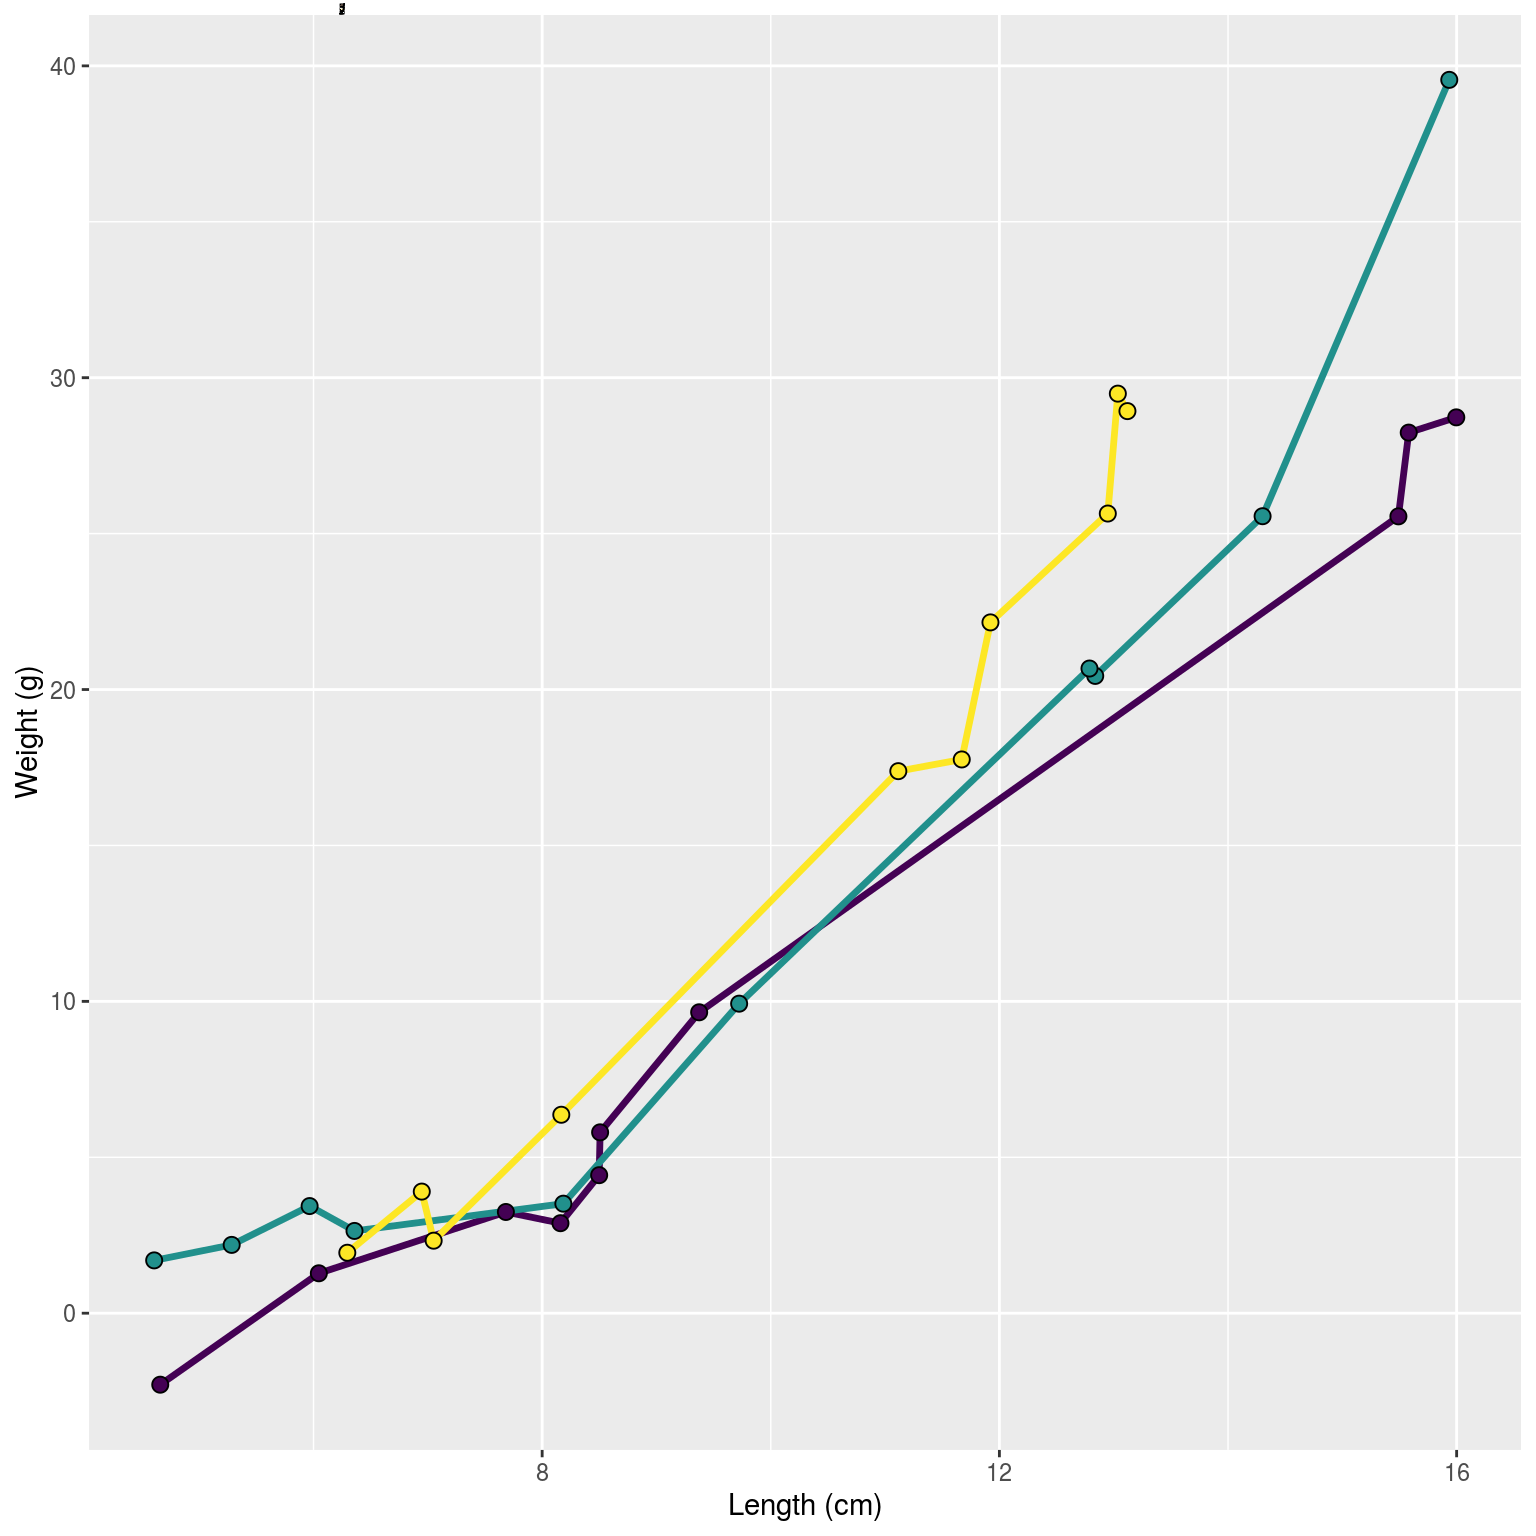
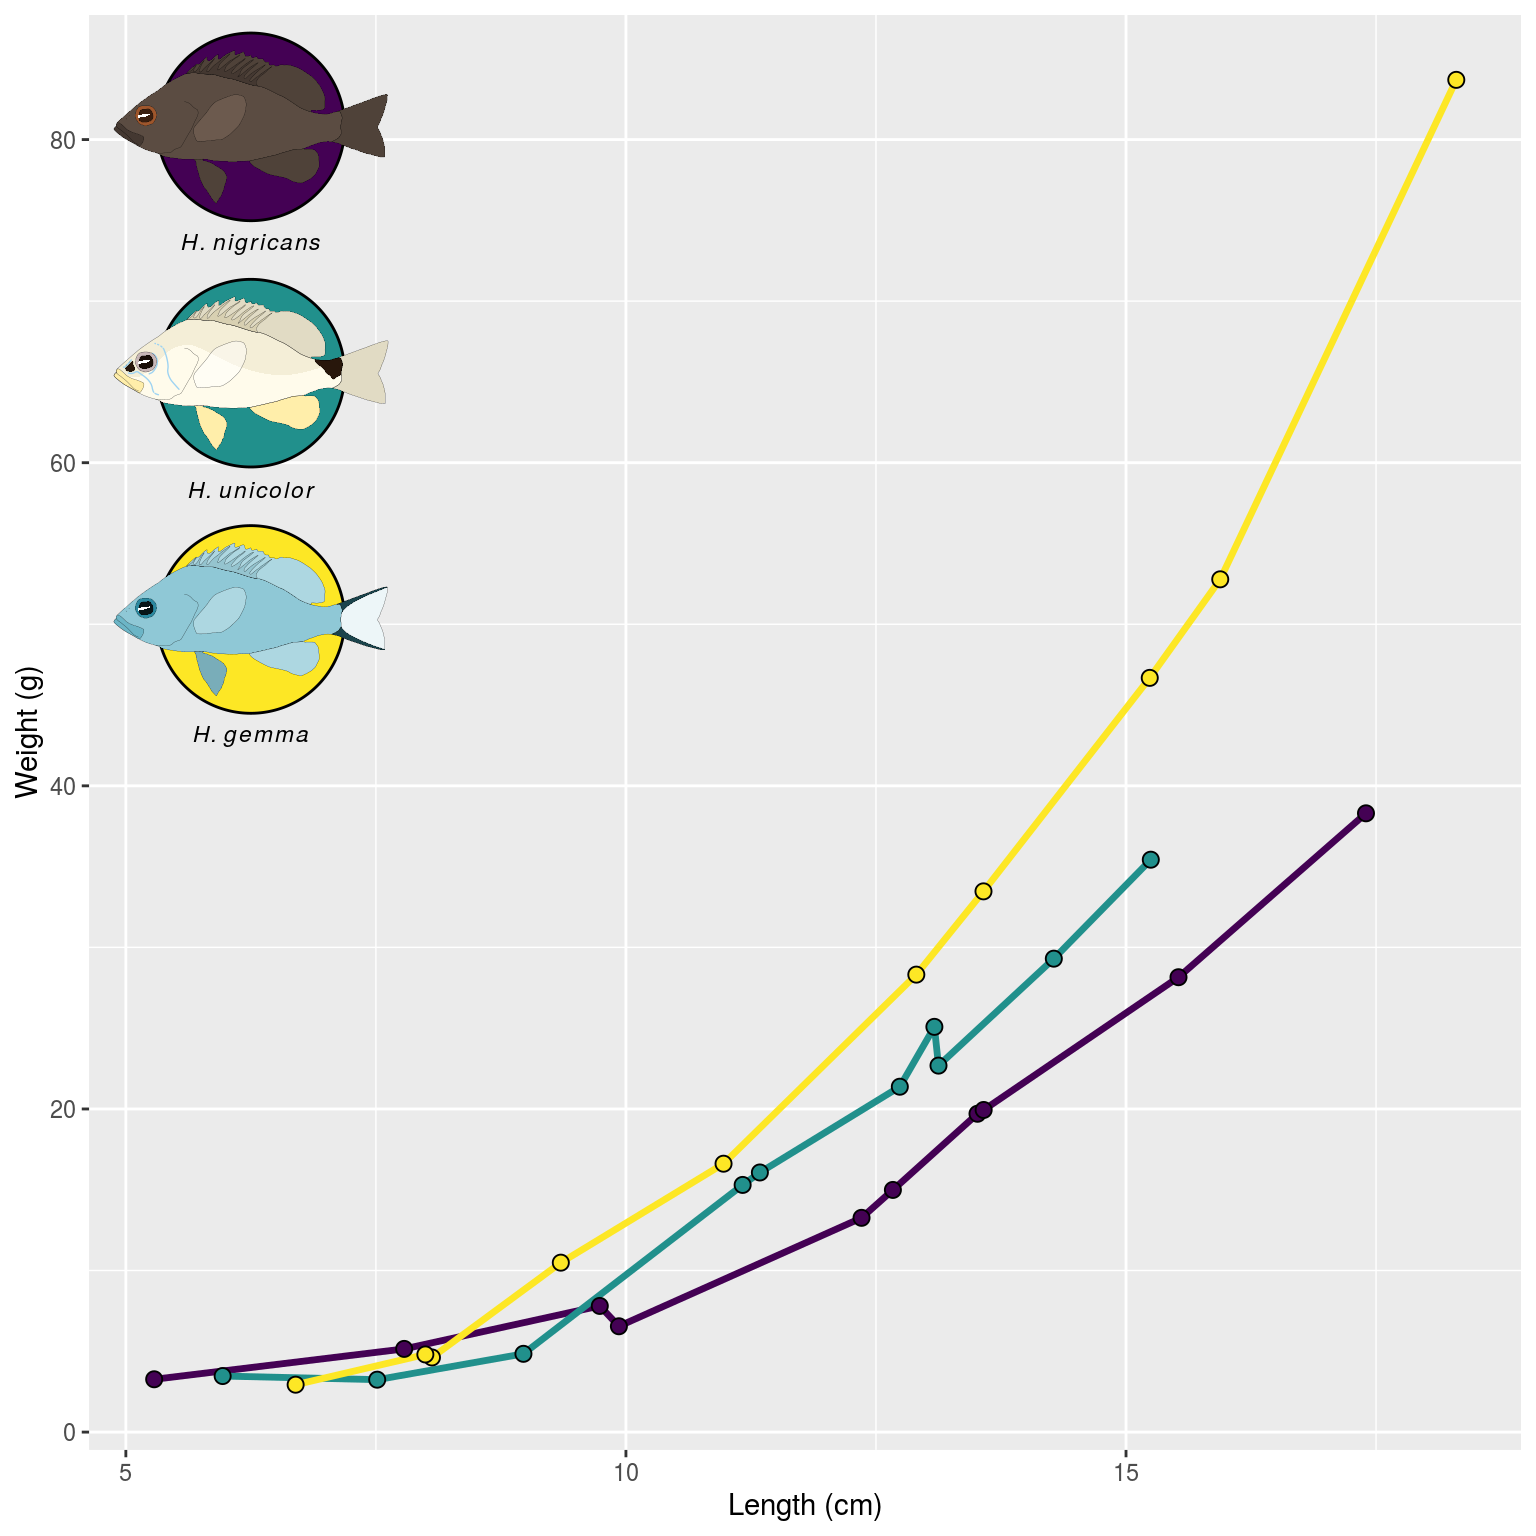
fix vignette

diff --git a/docs/articles/hypoimg.html b/docs/articles/hypoimg.html
@@ -167,7 +167,7 @@ img {
 <p><img src="hypoimg_files/figure-html/pairHypoBlock-1.png" width="95%"></p>
 <p>If several different species are used within one plot a custom legend can be generated based on the species list and the color map using <code>hypo_legend_single()</code>.</p>
 <p>To be able to use this legend the it needs to be transformed into a grob using <code><a href="https://ggplot2.tidyverse.org/reference/ggplotGrob.html">ggplot2::ggplotGrob()</a></code>.</p>
-<div class="sourceCode" id="cb6"><pre class="sourceCode r"><code class="sourceCode r"><a class="sourceLine" id="cb6-1" data-line-number="1"><span class="kw"><a href="https://rdrr.io/r/base/Random.html">set.seed</a></span>(<span class="dv">42</span>)</a>
+<div class="sourceCode" id="cb6"><pre class="sourceCode r"><code class="sourceCode r"><a class="sourceLine" id="cb6-1" data-line-number="1"><span class="kw"><a href="https://rdrr.io/r/base/Random.html">set.seed</a></span>(<span class="dv">5</span>)</a>
 <a class="sourceLine" id="cb6-2" data-line-number="2"></a>
 <a class="sourceLine" id="cb6-3" data-line-number="3"><span class="co"># For this demonstration we'll create a fake length - weight reltionship data table.</span></a>
 <a class="sourceLine" id="cb6-4" data-line-number="4"><span class="co"># To do this, we'll implement the relationship as stated by fishbase for H. puella:</span></a>
